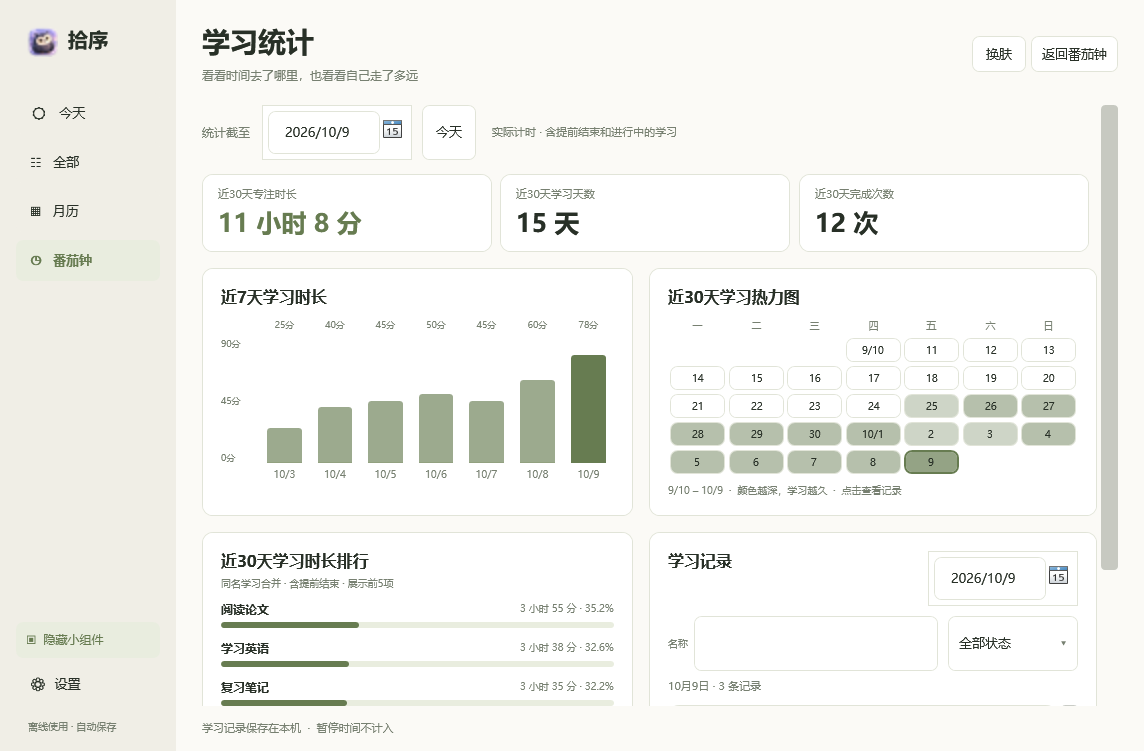
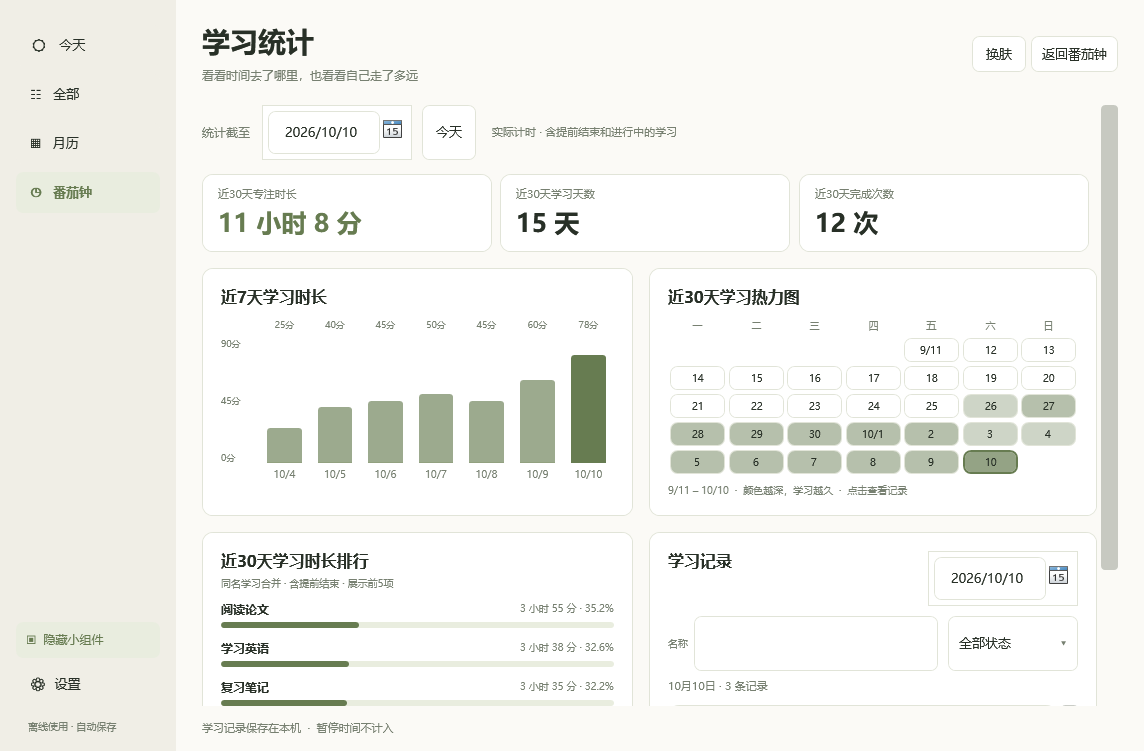
Remove duplicate sidebar branding and support graceful update exit in v1.6.1

diff --git a/src/MainWindow.cs b/src/MainWindow.cs
@@ -30,7 +30,7 @@ namespace DeskTodo
             app = controller; Title = "拾序"; Width = 1160; Height = 790; MinWidth = 960; MinHeight = 650;
             WindowStartupLocation = WindowStartupLocation.CenterScreen; Ui.Icon(this);
             Month = new DateTime(selected.Year, selected.Month, 1);
-            SourceInitialized += (s, e) => { NativeDesktop.DarkTitle(this, app.Settings.Theme == "dark"); NativeDesktop.RegisterActivation(this, app.BasePath, app.ShowMain); };
+            SourceInitialized += (s, e) => { NativeDesktop.DarkTitle(this, app.Settings.Theme == "dark"); NativeDesktop.RegisterActivation(this, app.BasePath, app.ShowMain, app.Exit); };
             Closing += (s, e) => { if (!app.Exiting) { e.Cancel = true; Hide(); } };
             PreviewKeyDown += (s, e) => { if (e.Key == Key.N && (Keyboard.Modifiers & ModifierKeys.Control) != 0) { app.Edit(null, page == "全部" ? (DateTime?)null : page == "月历" ? selected : DateTime.Today); e.Handled = true; } };
             var layout = new Grid(); layout.ColumnDefinitions.Add(new ColumnDefinition { Width = new GridLength(176) }); layout.ColumnDefinitions.Add(new ColumnDefinition()); Content = layout;
@@ -41,9 +41,6 @@ namespace DeskTodo
             var settings = Ui.Button("⚙  设置", () => { var window = new SettingsWindow(app) { Owner = this, WindowStartupLocation = WindowStartupLocation.CenterOwner }; window.ShowDialog(); }, "Quiet"); settings.HorizontalContentAlignment = HorizontalAlignment.Left; footer.Children.Add(settings);
             var offline = Ui.Text("离线使用 · 自动保存", 10, "Muted"); offline.Margin = new Thickness(12, 18, 0, 0); footer.Children.Add(offline);
             var nav = new StackPanel(); side.Children.Add(nav);
-            var brand = new StackPanel { Orientation = Orientation.Horizontal, Margin = new Thickness(10, 0, 0, 36) };
-            var badge = new Image { Source = Icon, Width = 32, Height = 32 }; brand.Children.Add(badge);
-            var name = Ui.Text("拾序", 20, "Text", true); name.Margin = new Thickness(10, 2, 0, 0); brand.Children.Add(name); nav.Children.Add(brand);
             string[] keys = { "今天", "全部", "月历", "番茄钟" }, icons = { "☀", "☷", "▦", "◷" };
             for (int n = 0; n < keys.Length; n++)
             {

diff --git a/src/NativeDesktop.cs b/src/NativeDesktop.cs
@@ -119,18 +119,25 @@ namespace DeskTodo
             }
             catch (DllNotFoundException) {} catch (EntryPointNotFoundException) {}
         }
-        public static void RegisterActivation(Window window, string root, Action show)
+        public static void RegisterActivation(Window window, string root, Action show, Action exit)
         {
             uint message = RegisterWindowMessage("DeskTodo.Show." + Program.Hash(root));
+            uint exitMessage = RegisterWindowMessage("DeskTodo.Exit." + Program.Hash(root));
             HwndSource.FromHwnd(Handle(window)).AddHook((IntPtr hwnd, int msg, IntPtr wparam, IntPtr lparam, ref bool handled) =>
             {
                 if (msg == message) { window.Dispatcher.BeginInvoke(show); handled = true; }
+                if (msg == exitMessage) { window.Dispatcher.BeginInvoke(exit); handled = true; }
                 return IntPtr.Zero;
             });
         }
         public static void ActivateMain(string root)
         {
             uint message = RegisterWindowMessage("DeskTodo.Show." + Program.Hash(root));
+            PostMessage(new IntPtr(0xffff), message, IntPtr.Zero, IntPtr.Zero);
+        }
+        public static void RequestExit(string root)
+        {
+            uint message = RegisterWindowMessage("DeskTodo.Exit." + Program.Hash(root));
             PostMessage(new IntPtr(0xffff), message, IntPtr.Zero, IntPtr.Zero);
         }
     }

diff --git a/src/UiSmoke.cs b/src/UiSmoke.cs
@@ -379,7 +379,10 @@ namespace DeskTodo
                 IntPtr desktopRoot = GetAncestor(new WindowInteropHelper(app.Widget).Handle, 2);
                 Check(positioned && order.IndexOf(mainHwnd) >= 0 && order.IndexOf(mainHwnd) < order.IndexOf(desktopRoot) && GetAncestor(hit, 2) != desktopRoot, "ordinary windows stack above desktop widget");
                 File.WriteAllText(Path.Combine(root, "ui-report.txt"), "ALL PASS: " + passed + Environment.NewLine + "Desktop parent: " + NativeDesktop.ParentClass(app.Widget));
-                app.Exit();
+                var exitRequest = System.Diagnostics.Process.Start(new System.Diagnostics.ProcessStartInfo(System.Reflection.Assembly.GetExecutingAssembly().Location, "--exit \"" + app.BasePath + "\"") { UseShellExecute = false });
+                Check(exitRequest.WaitForExit(3000), "exit command requester returns without opening another app window"); Pump();
+                Check(app.Exiting, "external exit command closes application through its save-and-exit path");
+                File.WriteAllText(Path.Combine(root, "ui-report.txt"), "ALL PASS: " + passed + Environment.NewLine + "Graceful exit verified");
             }
             catch (Exception ex)
             {

diff --git a/src/App.cs b/src/App.cs
@@ -15,7 +15,7 @@ using Forms = System.Windows.Forms;
 
 [assembly: AssemblyTitle("拾序")]
 [assembly: AssemblyProduct("拾序 · 桌面待办")]
-[assembly: AssemblyVersion("1.6.0.0")]
+[assembly: AssemblyVersion("1.6.1.0")]
 
 namespace DeskTodo
 {
@@ -26,6 +26,7 @@ namespace DeskTodo
         {
             Thread.CurrentThread.CurrentCulture = new System.Globalization.CultureInfo("zh-CN");
             Thread.CurrentThread.CurrentUICulture = Thread.CurrentThread.CurrentCulture;
+            if ((args.Length == 1 || args.Length == 2) && args[0] == "--exit") { NativeDesktop.RequestExit(args.Length == 2 ? Path.GetFullPath(args[1]) : AppDomain.CurrentDomain.BaseDirectory); return 0; }
             bool test = args.Length == 2 && args[0] == "--ui-test";
             string root = test ? Path.GetFullPath(args[1]) : AppDomain.CurrentDomain.BaseDirectory;
             Directory.CreateDirectory(root);

diff --git a/README.md b/README.md
@@ -4,13 +4,13 @@
 
 拾序是一款面向个人使用的 Windows 原生待办与学习专注软件。用月历安排事情，用桌面小组件查看任务，用番茄钟记录学习，再通过图表回顾时间分配。数据保存在本机，无需登录。
 
-当前版本：**v1.6.0**。基于 **C# / WPF / .NET Framework 4.8**，便携运行，无第三方运行依赖。
+当前版本：**v1.6.1**。基于 **C# / WPF / .NET Framework 4.8**，便携运行，无第三方运行依赖。
 
 [下载 Windows x64 便携版](https://github.com/XiongWen04/shixu/releases/latest) · [使用说明](docs/使用说明.md) · [版本记录](https://github.com/XiongWen04/shixu/releases)
 
 ## 快速开始
 
-1. [下载 v1.6.0 便携包](https://github.com/XiongWen04/shixu/releases/download/v1.6.0/Shixu-v1.6.0-win-x64-portable.zip)，解压到可写文件夹，运行 `拾序.exe`。
+1. [下载 v1.6.1 便携包](https://github.com/XiongWen04/shixu/releases/download/v1.6.1/Shixu-v1.6.1-win-x64-portable.zip)，解压到可写文件夹，运行 `拾序.exe`。
 2. 需要安排事情时，点击“添加”，填写标题、日期、时间和地点；按需开启提醒、重复或重要标记。
 3. 需要学习时，左侧打开“番茄钟”，填写学习名称与分钟数，点击“开始学习”。
 4. 学习结束后查看右侧“今日学习”；点击右上角“学习统计”，查看图表及历史记录。
@@ -29,7 +29,9 @@
 
 ## 界面预览
 
-以下为 v1.6.0 实际运行截图，任务内容均为示例。日期随截图时的系统日期显示。
+以下为 v1.6.1 实际运行截图，任务内容均为示例。日期随截图时的系统日期显示。
+
+主窗口只在系统标题栏保留图标与名称，侧栏直接显示导航，减少重复品牌展示。
 
 ### 用月历安排一个月
 
@@ -144,7 +146,7 @@
 
 便携版解压后运行 `拾序.exe`，并保留旁边的 `拾序.exe.config`。关闭主窗口只会隐藏主窗口；彻底退出请在托盘菜单中选择“退出”。
 
-从 [GitHub Releases](https://github.com/XiongWen04/shixu/releases/latest) 下载 `Shixu-v1.6.0-win-x64-portable.zip`。源码仓库本身不包含编译后的程序。仓库及 Release 已公开，可直接查看源码和下载附件。
+从 [GitHub Releases](https://github.com/XiongWen04/shixu/releases/latest) 下载 `Shixu-v1.6.1-win-x64-portable.zip`。源码仓库本身不包含编译后的程序。仓库及 Release 已公开，可直接查看源码和下载附件。
 
 ### 第一次使用
 
@@ -215,15 +217,16 @@ Get-Content -LiteralPath (Join-Path $testPath 'ui-report.txt')
 ├── README.md
 ├── .gitignore
 ├── .gitattributes
+├── 启动拾序.lnk         # 本机启动入口，忽略
+├── 拾序/               # 本机最新版程序、个人数据与设置，忽略
 ├── src/                # 源码、图标、样式、构建与检查代码
 ├── docs/               # 使用说明
-├── dist/               # 构建输出，忽略
-├── test-results/       # 检查结果，忽略
-├── outputs/            # 本机程序与交付文件，忽略
-└── work/               # 本机历史备份与临时内容，忽略
+└── outputs/            # 最新便携包与校验文件，忽略
 ```
 
-`outputs/` 和 `work/` 是本机保留目录，不属于公开源码。新克隆的仓库不会包含它们。
+本机工作目录可双击 `启动拾序.lnk`；程序和数据保存在 `拾序/`。这些本机文件及 `outputs/` 不属于公开源码，新克隆的仓库不会包含它们。GitHub 用户请下载 Release，解压后运行 `拾序.exe`。
+
+`dist/` 和 `test-results/` 会在执行构建与检查命令时生成，由 `.gitignore` 排除。
 
 `docs/screenshots/` 保存 README 使用的示例界面截图。Release 的便携包只包含可执行文件、运行配置和使用说明，源码通过本仓库下载。
 
@@ -253,6 +256,7 @@ Get-Content -LiteralPath (Join-Path $testPath 'ui-report.txt')
 
 | 版本 | 主要变化 |
 | --- | --- |
+| [v1.6.1](https://github.com/XiongWen04/shixu/releases/tag/v1.6.1) | 去掉侧栏重复图标与名称，增加保存进度后退出的控制入口 |
 | [v1.6.0](https://github.com/XiongWen04/shixu/releases/tag/v1.6.0) | 7天柱状图、30天热力图、学习排行、历史日期与名称/状态筛选 |
 | [v1.5.0](https://github.com/XiongWen04/shixu/releases/tag/v1.5.0) | 自定义番茄钟、暂停继续、到点通知和今日学习记录 |
 | [v1.4.0](https://github.com/XiongWen04/shixu/releases/tag/v1.4.0) | 到点提醒、按日历重复待办、重要任务星标 |

diff --git a/docs/使用说明.md b/docs/使用说明.md
@@ -68,6 +68,8 @@
 
 ## 外观
 
+v1.6.1 起，主窗口的图标和名称只保留在系统标题栏，左侧直接显示导航，避免上下重复。
+
 右上角“换肤”或设置中的外观按钮可切换蓝白、暖色与深色。主窗口、桌面小组件及弹窗同步更新；支持的系统上，标题栏也使用相同配色。
 
 ## 数据
